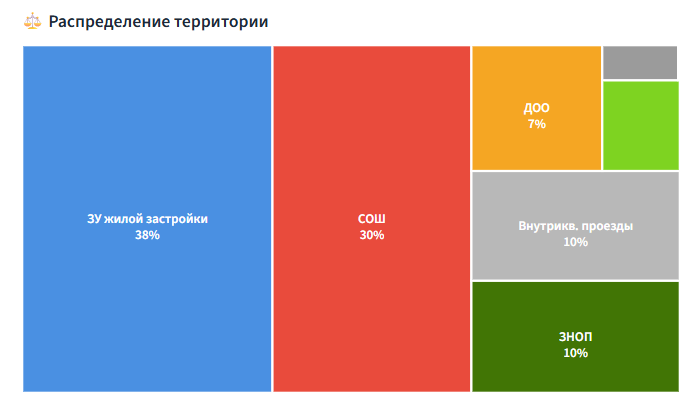
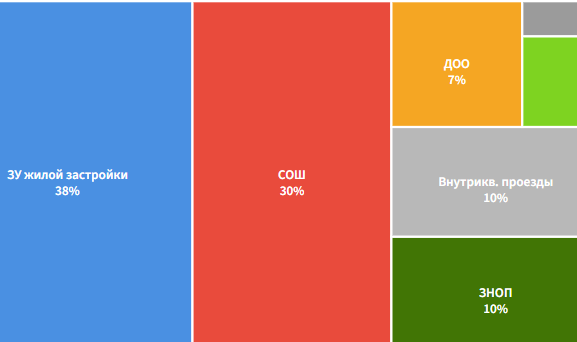
fix: headless=true для Streamlit Cloud + лендинг (аккордеон-карточки)
- .streamlit/config.toml: headless=false -> true (при false сервер на Cloud не
  стартует из-за welcome/email-промпта -> health check connection refused)
- лендинг: карточки возможностей раскрываются по КЛИКУ (<details>), а не по наведению

diff --git a/docs/index.html b/docs/index.html
@@ -41,7 +41,16 @@
         padding:14px 30px;border-radius:12px;font-size:16px;text-decoration:none;
         box-shadow:0 6px 20px rgba(245,166,35,.4);transition:.2s}
   .cta:hover{transform:translateY(-2px);box-shadow:0 12px 30px rgba(245,166,35,.55)}
-  .card[title]{cursor:help}
+  /* Карточки-аккордеоны: пояснение раскрывается по клику */
+  details.card{cursor:pointer}
+  details.card summary{list-style:none;position:relative;outline:none}
+  details.card summary::-webkit-details-marker{display:none}
+  details.card summary::after{content:"+";position:absolute;right:2px;top:-2px;
+        color:var(--blue);font-weight:800;font-size:22px;line-height:1}
+  details.card[open] summary::after{content:"–"}
+  details.card .more{margin-top:12px;padding-top:12px;border-top:1px solid #EEF2F7;
+        color:var(--muted);font-size:14px}
+  details.card summary p{margin-top:6px}
 
   /* SECTIONS */
   section{padding:64px 0}
@@ -128,26 +137,38 @@
     <div class="eyebrow">Возможности</div>
     <h2>Всё для оценки вариантов проектных решений</h2>
     <p class="lead">Один расчётный движок — все режимы. Каждый показатель несёт
-       источник, формулу и статус. Наведите на карточку — краткое пояснение.</p>
+       источник, формулу и статус. Нажмите на карточку — раскроется пояснение.</p>
     <div class="grid">
-      <div class="card" title="Площадь квартир / ЗУ жилой застройки. Бисекция ищет максимум КИТ при балансе территории и нормативах ПЗЗ (≤1.4 без ДПТ, ≤2.5 с ДПТ)."><div class="ico">📐</div><h3>Обратный расчёт КИТ</h3>
+      <details class="card"><summary><div class="ico">📐</div><h3>Обратный расчёт КИТ</h3>
         <p>Бисекция находит максимально допустимый КИТ при выполнении баланса
-           территории и всех нормативных ограничений.</p></div>
-      <div class="card" title="Все компоненты квартала вычитаются из площади; контролируются норматив 25%-озеленения и предельная плотность 450 чел/га."><div class="ico">⚖</div><h3>Баланс территории</h3>
+           территории и всех нормативных ограничений.</p></summary>
+        <div class="more">КИТ = площадь квартир / ЗУ жилой застройки. Бисекция ищет
+           максимум при балансе территории и нормативах ПЗЗ (≤1.4 без ДПТ, ≤2.5 с ДПТ).</div></details>
+      <details class="card"><summary><div class="ico">⚖</div><h3>Баланс территории</h3>
         <p>Жильё, ДОО/СОШ, парковки, ЗНОП, проезды, спорт — с контролем
-           25%-озеленения и плотности 450 чел/га.</p></div>
-      <div class="card" title="Парковки трёх типов с расчётом пятна; ДОО/СОШ — вместимость, число объектов, ЗУ по нормативам ПЗЗ СПб."><div class="ico">🅿</div><h3>Парковки и соцобъекты</h3>
+           25%-озеленения и плотности 450 чел/га.</p></summary>
+        <div class="more">Все компоненты квартала вычитаются из площади; контролируются
+           норматив 25%-озеленения и предельная плотность 450 чел/га.</div></details>
+      <details class="card"><summary><div class="ico">🅿</div><h3>Парковки и соцобъекты</h3>
         <p>Открытые / многоуровневые / подземные; ДОО и СОШ по нормативам ПЗЗ
-           с разбивкой на объекты.</p></div>
-      <div class="card" title="Optuna подбирает топ-3 сценария (макс. площадь / прибыль / баланс); пофакторный анализ и торнадо-чувствительность."><div class="ico">🧬</div><h3>Оптимизация</h3>
+           с разбивкой на объекты.</p></summary>
+        <div class="more">Парковки трёх типов с расчётом пятна застройки; ДОО/СОШ —
+           вместимость, число объектов и ЗУ по нормативам ПЗЗ СПб.</div></details>
+      <details class="card"><summary><div class="ico">🧬</div><h3>Оптимизация</h3>
         <p>Optuna подбирает лучшие сценарии по площади и прибыли; пофакторный
-           анализ и чувствительность.</p></div>
-      <div class="card" title="Квартал делится на зоны с разной высотностью; КИТ и экономика считаются покластерно, баланс — по средневзвешенной этажности."><div class="ico">🏗</div><h3>Разная этажность по зонам</h3>
+           анализ и чувствительность.</p></summary>
+        <div class="more">Топ-3 сценария (макс. площадь / прибыль / баланс),
+           пофакторный анализ «что улучшить» и торнадо-чувствительность.</div></details>
+      <details class="card"><summary><div class="ico">🏗</div><h3>Разная этажность по зонам</h3>
         <p>Кластеры этажности: покластерный КИТ и экономика, средневзвешенная
-           этажность для баланса.</p></div>
-      <div class="card" title="Себестоимость, выручка и выгодность в условных баллах; деловые отчёты Word (альбомные) и презентации PowerPoint для Заказчика."><div class="ico">💰</div><h3>Экономика и отчёты</h3>
+           этажность для баланса.</p></summary>
+        <div class="more">Квартал делится на зоны с разной высотностью; КИТ и экономика
+           считаются покластерно, баланс — по средневзвешенной этажности.</div></details>
+      <details class="card"><summary><div class="ico">💰</div><h3>Экономика и отчёты</h3>
         <p>Себестоимость, выручка, выгодность; деловые отчёты в DOCX и
-           презентации PPTX «под Заказчика».</p></div>
+           презентации PPTX «под Заказчика».</p></summary>
+        <div class="more">Себестоимость, выручка и выгодность в условных баллах;
+           деловые отчёты Word (альбомные) и презентации PowerPoint.</div></details>
     </div>
   </div>
 </section>

diff --git a/лендинг.html b/лендинг.html
@@ -41,7 +41,16 @@
         padding:14px 30px;border-radius:12px;font-size:16px;text-decoration:none;
         box-shadow:0 6px 20px rgba(245,166,35,.4);transition:.2s}
   .cta:hover{transform:translateY(-2px);box-shadow:0 12px 30px rgba(245,166,35,.55)}
-  .card[title]{cursor:help}
+  /* Карточки-аккордеоны: пояснение раскрывается по клику */
+  details.card{cursor:pointer}
+  details.card summary{list-style:none;position:relative;outline:none}
+  details.card summary::-webkit-details-marker{display:none}
+  details.card summary::after{content:"+";position:absolute;right:2px;top:-2px;
+        color:var(--blue);font-weight:800;font-size:22px;line-height:1}
+  details.card[open] summary::after{content:"–"}
+  details.card .more{margin-top:12px;padding-top:12px;border-top:1px solid #EEF2F7;
+        color:var(--muted);font-size:14px}
+  details.card summary p{margin-top:6px}
 
   /* SECTIONS */
   section{padding:64px 0}
@@ -128,26 +137,38 @@
     <div class="eyebrow">Возможности</div>
     <h2>Всё для оценки вариантов проектных решений</h2>
     <p class="lead">Один расчётный движок — все режимы. Каждый показатель несёт
-       источник, формулу и статус. Наведите на карточку — краткое пояснение.</p>
+       источник, формулу и статус. Нажмите на карточку — раскроется пояснение.</p>
     <div class="grid">
-      <div class="card" title="Площадь квартир / ЗУ жилой застройки. Бисекция ищет максимум КИТ при балансе территории и нормативах ПЗЗ (≤1.4 без ДПТ, ≤2.5 с ДПТ)."><div class="ico">📐</div><h3>Обратный расчёт КИТ</h3>
+      <details class="card"><summary><div class="ico">📐</div><h3>Обратный расчёт КИТ</h3>
         <p>Бисекция находит максимально допустимый КИТ при выполнении баланса
-           территории и всех нормативных ограничений.</p></div>
-      <div class="card" title="Все компоненты квартала вычитаются из площади; контролируются норматив 25%-озеленения и предельная плотность 450 чел/га."><div class="ico">⚖</div><h3>Баланс территории</h3>
+           территории и всех нормативных ограничений.</p></summary>
+        <div class="more">КИТ = площадь квартир / ЗУ жилой застройки. Бисекция ищет
+           максимум при балансе территории и нормативах ПЗЗ (≤1.4 без ДПТ, ≤2.5 с ДПТ).</div></details>
+      <details class="card"><summary><div class="ico">⚖</div><h3>Баланс территории</h3>
         <p>Жильё, ДОО/СОШ, парковки, ЗНОП, проезды, спорт — с контролем
-           25%-озеленения и плотности 450 чел/га.</p></div>
-      <div class="card" title="Парковки трёх типов с расчётом пятна; ДОО/СОШ — вместимость, число объектов, ЗУ по нормативам ПЗЗ СПб."><div class="ico">🅿</div><h3>Парковки и соцобъекты</h3>
+           25%-озеленения и плотности 450 чел/га.</p></summary>
+        <div class="more">Все компоненты квартала вычитаются из площади; контролируются
+           норматив 25%-озеленения и предельная плотность 450 чел/га.</div></details>
+      <details class="card"><summary><div class="ico">🅿</div><h3>Парковки и соцобъекты</h3>
         <p>Открытые / многоуровневые / подземные; ДОО и СОШ по нормативам ПЗЗ
-           с разбивкой на объекты.</p></div>
-      <div class="card" title="Optuna подбирает топ-3 сценария (макс. площадь / прибыль / баланс); пофакторный анализ и торнадо-чувствительность."><div class="ico">🧬</div><h3>Оптимизация</h3>
+           с разбивкой на объекты.</p></summary>
+        <div class="more">Парковки трёх типов с расчётом пятна застройки; ДОО/СОШ —
+           вместимость, число объектов и ЗУ по нормативам ПЗЗ СПб.</div></details>
+      <details class="card"><summary><div class="ico">🧬</div><h3>Оптимизация</h3>
         <p>Optuna подбирает лучшие сценарии по площади и прибыли; пофакторный
-           анализ и чувствительность.</p></div>
-      <div class="card" title="Квартал делится на зоны с разной высотностью; КИТ и экономика считаются покластерно, баланс — по средневзвешенной этажности."><div class="ico">🏗</div><h3>Разная этажность по зонам</h3>
+           анализ и чувствительность.</p></summary>
+        <div class="more">Топ-3 сценария (макс. площадь / прибыль / баланс),
+           пофакторный анализ «что улучшить» и торнадо-чувствительность.</div></details>
+      <details class="card"><summary><div class="ico">🏗</div><h3>Разная этажность по зонам</h3>
         <p>Кластеры этажности: покластерный КИТ и экономика, средневзвешенная
-           этажность для баланса.</p></div>
-      <div class="card" title="Себестоимость, выручка и выгодность в условных баллах; деловые отчёты Word (альбомные) и презентации PowerPoint для Заказчика."><div class="ico">💰</div><h3>Экономика и отчёты</h3>
+           этажность для баланса.</p></summary>
+        <div class="more">Квартал делится на зоны с разной высотностью; КИТ и экономика
+           считаются покластерно, баланс — по средневзвешенной этажности.</div></details>
+      <details class="card"><summary><div class="ico">💰</div><h3>Экономика и отчёты</h3>
         <p>Себестоимость, выручка, выгодность; деловые отчёты в DOCX и
-           презентации PPTX «под Заказчика».</p></div>
+           презентации PPTX «под Заказчика».</p></summary>
+        <div class="more">Себестоимость, выручка и выгодность в условных баллах;
+           деловые отчёты Word (альбомные) и презентации PowerPoint.</div></details>
     </div>
   </div>
 </section>
